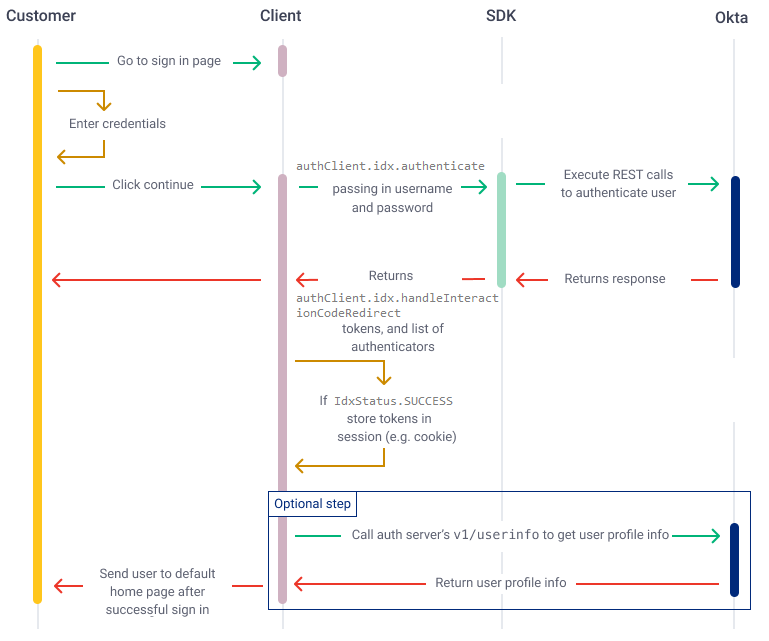
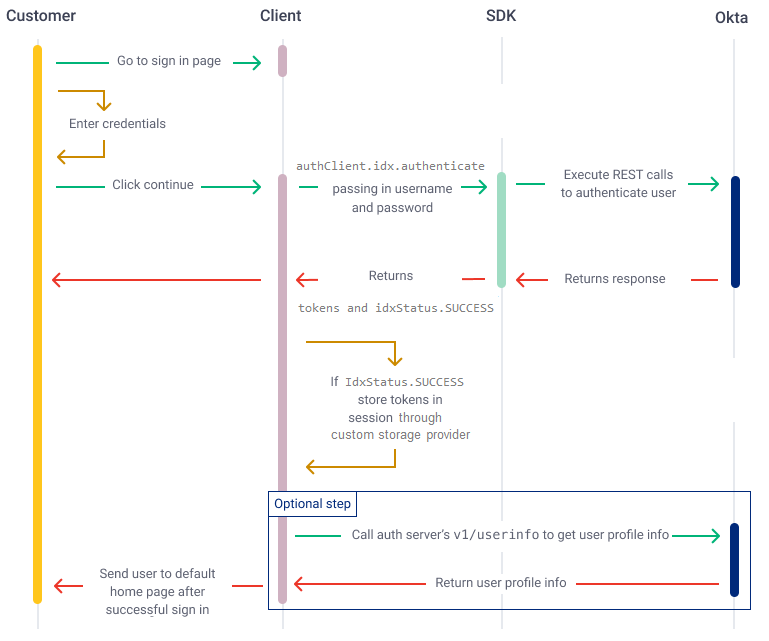
Revised content based on review; updated sequence image

Changed region(s): [[0.3745, 0.4368, 0.6554, 0.7176], [0.3745, 0.7176, 0.4369, 0.7488], [0.4681, 0.7176, 0.4993, 0.7488]]

diff --git a/packages/@okta/vuepress-site/docs/guides/oie-embedded-sdk-use-cases/oie-embedded-sdk-use-case-basic-sign-in/nodejs/integrationsteps.md b/packages/@okta/vuepress-site/docs/guides/oie-embedded-sdk-use-cases/oie-embedded-sdk-use-case-basic-sign-in/nodejs/integrationsteps.md
@@ -15,7 +15,7 @@ For example:
 
 ### Step 2: Authenticate user credentials
 
-When the user initiates the sign-in process, your app needs to create an `authClient` object as shown in the sample app `login.js` file, and set its `username` and `password` properties to the values entered by the user. Send this object to the `authClient.idx.authenticate` function to authenticate the user. See [idx.Authenticate](https://github.com/okta/okta-auth-js/blob/master/docs/idx.md#idxauthenticate) for more information.
+When the user initiates the sign-in process, your app needs to create a new `OktaAuth` object, which in the SDK sample app's `login.js` file is `authClient`, and set its `username` and `password` properties to the values entered by the user. Send this object to the `idx.authenticate` function to authenticate the user. See [idx.Authenticate](https://github.com/okta/okta-auth-js/blob/master/docs/idx.md#idxauthenticate) for more information.
 
 ```JavaScript
 router.post('/login', async (req, res, next) => {
@@ -31,35 +31,30 @@ router.post('/login', async (req, res, next) => {
 
 ### Step 3: Handle the response from the sign in
 
-The application handles the response from the authentication call using the `authClient.idx.handleInteractionCodeRedirect` function as shown in the SDK sample application `login.js` file. See [idx.handleInteractionCodeRedirect](https://github.com/okta/okta-auth-js/blob/master/docs/idx.md#idxhandleinteractioncoderedirect) for more information.
+The application handles the response from the authentication call using the `handleTransaction` function as shown in the SDK sample application `handleTransaction.js` file. The `transaction` parameter is the `IdxStatus` passed in through the response from Okta.
 
 ```JavaScript
-router.get('/login/callback', async (req, res, next) => {
-  const url = req.protocol + '://' + req.get('host') + req.originalUrl;
-  const authClient = getAuthClient(req);
-  try {
-    // Exchange code for tokens
-    await authClient.idx.handleInteractionCodeRedirect(url);
-    // Redirect back to home page
-    res.redirect('/');
-  } catch (err) {
-    if (authClient.isInteractionRequiredError(err) === true) {
-      const error = new Error(
-        'Multifactor Authentication and Social Identity Providers are not currently supported, Authentication failed.'
-      );
-      next(error);
-      return;
-    }
+module.exports = function handleTransaction({
+  req,
+  res,
+  next,
+  authClient,
+  transaction,
+}) {
+  const {
+    nextStep,
+    tokens,
+    status,
+    error,
+  } = transaction;
 
-    next(err);
-  }
-});
+...
 ```
 
 #### Success status
 
 For a successful sign-in response, the `IdxStatus` field indicates a success `IdxStatus.SUCCESS` and retrieves the token and processes the authenticated user in the app. The SDK sample application
-saves the tokens to storage in the `handleTransaction.js` file and redirect back to the home page.
+saves the tokens to storage in the `handleTransaction.js` file and redirects back to the home page.
 
 ```JavaScript
 case IdxStatus.SUCCESS:
@@ -68,6 +63,9 @@ case IdxStatus.SUCCESS:
       // Redirect back to home page
       res.redirect('/');
       return;
+
+...
+
 ```
 
 #### Other status
@@ -105,7 +103,7 @@ You need to handle other returned `IdxStatus` cases if the user didn't sign in s
       res.redirect('/');
       return;
   }
-};
+
 ```
 
 ### Step 4: Get user profile information-optional
